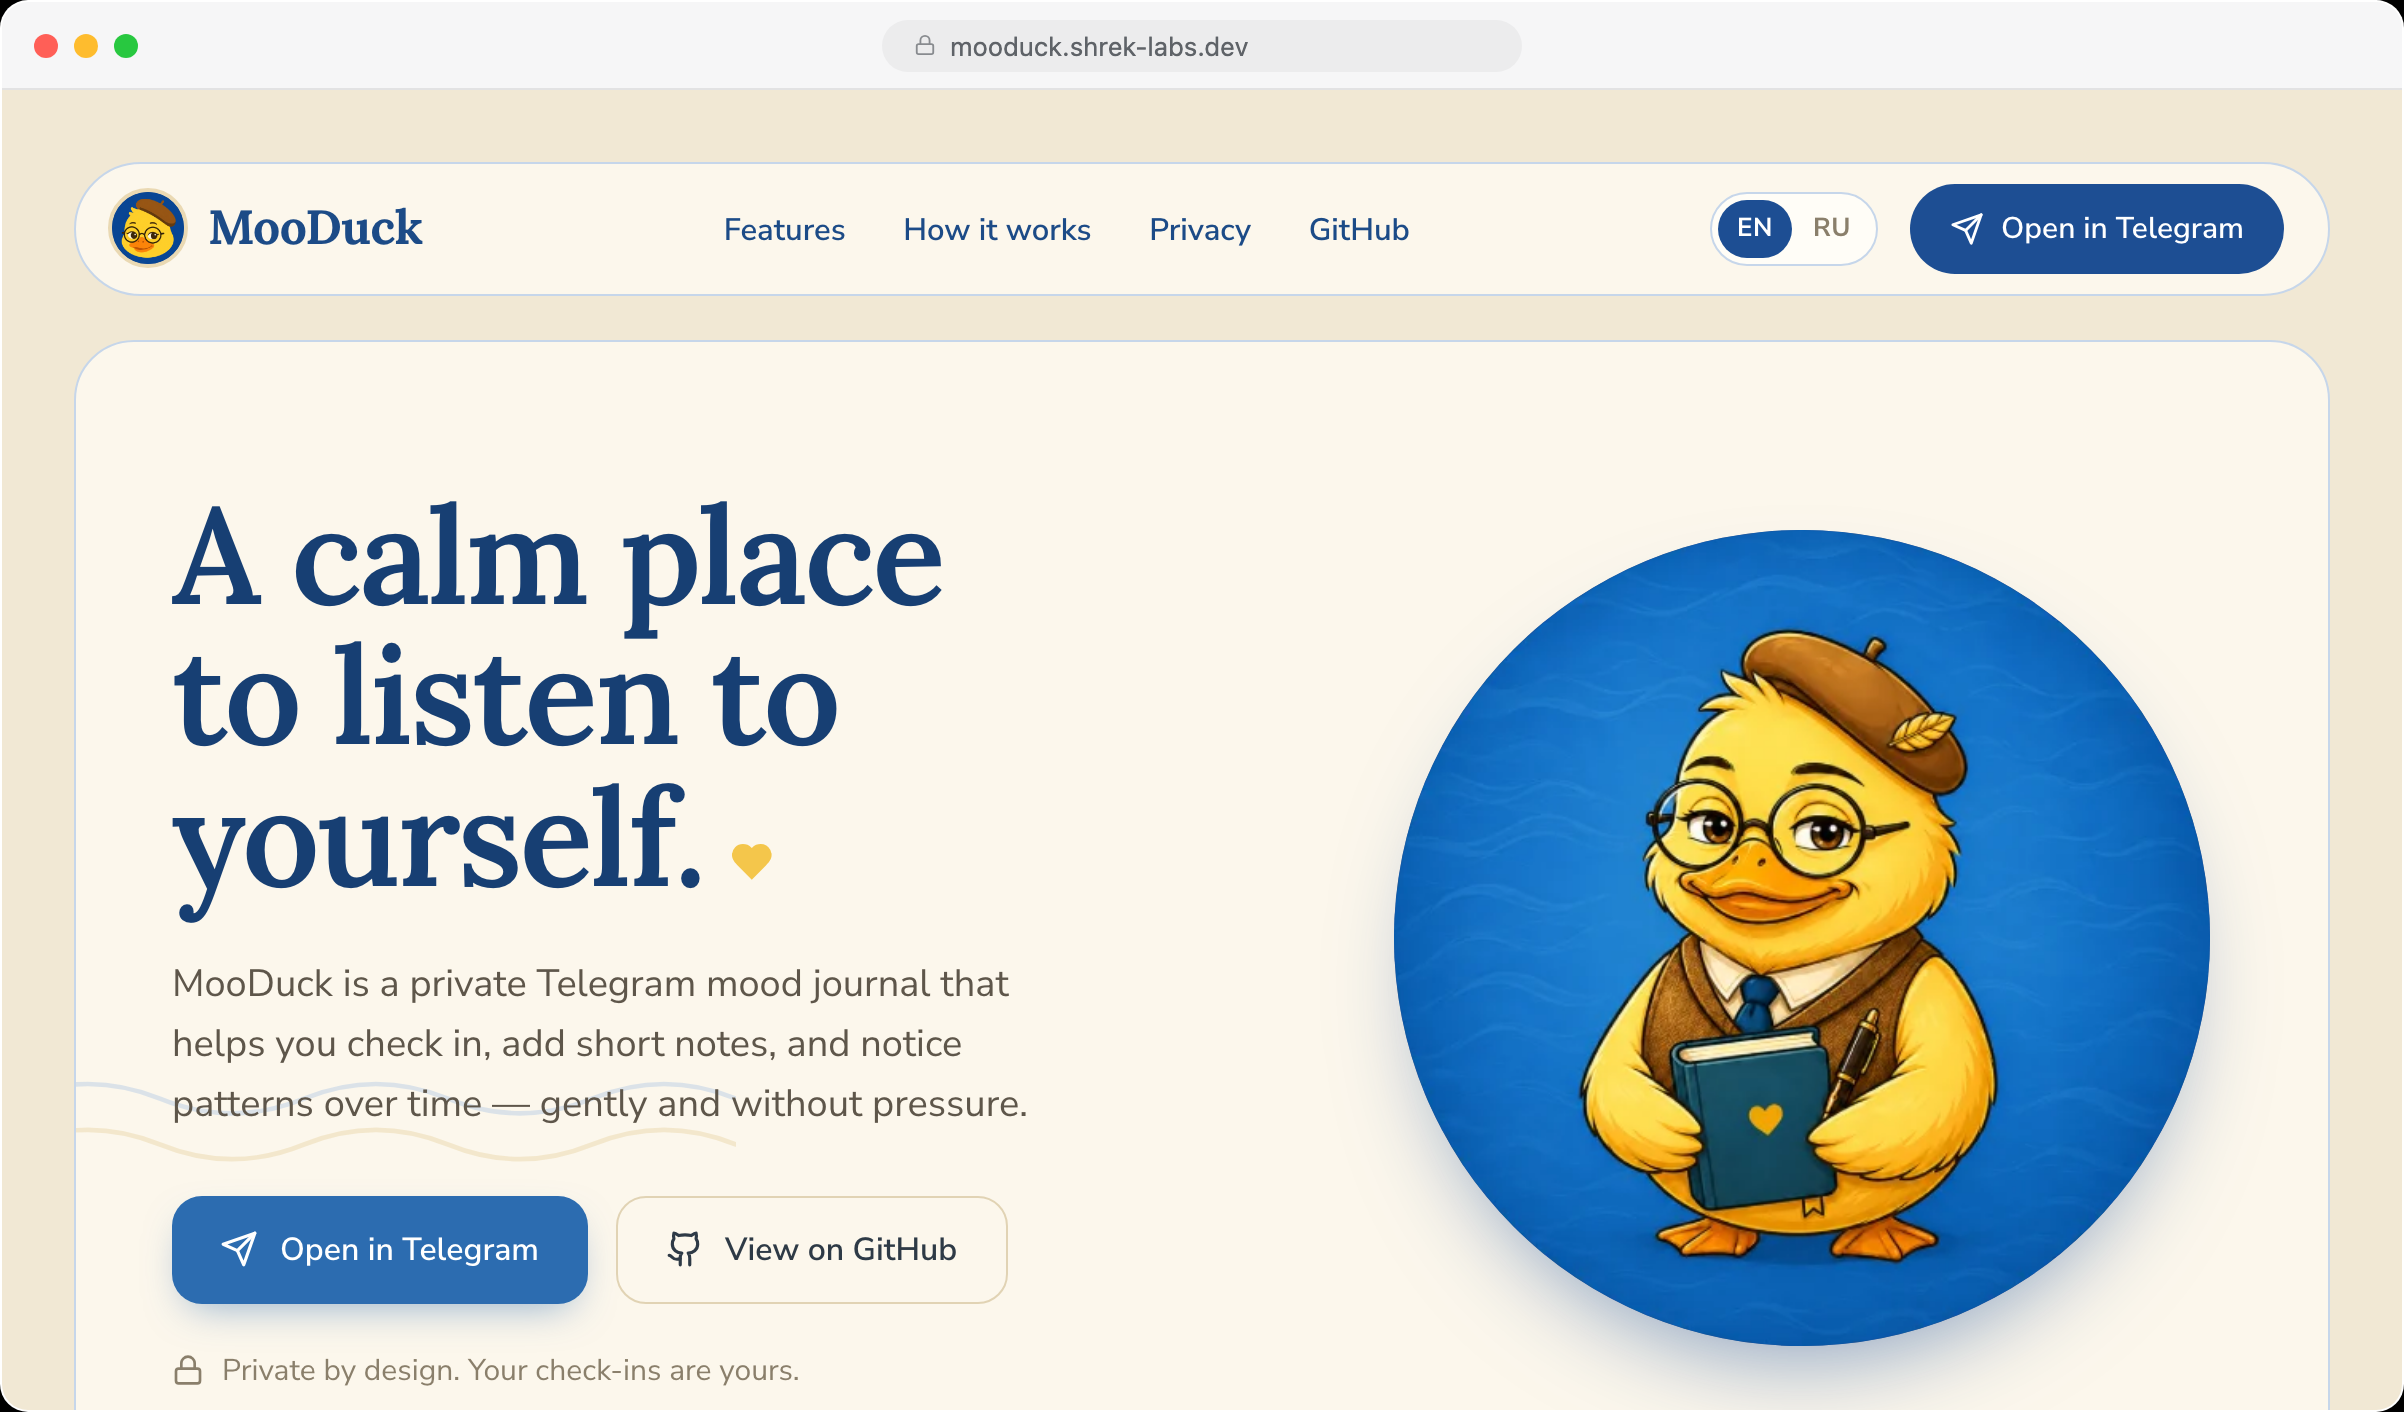
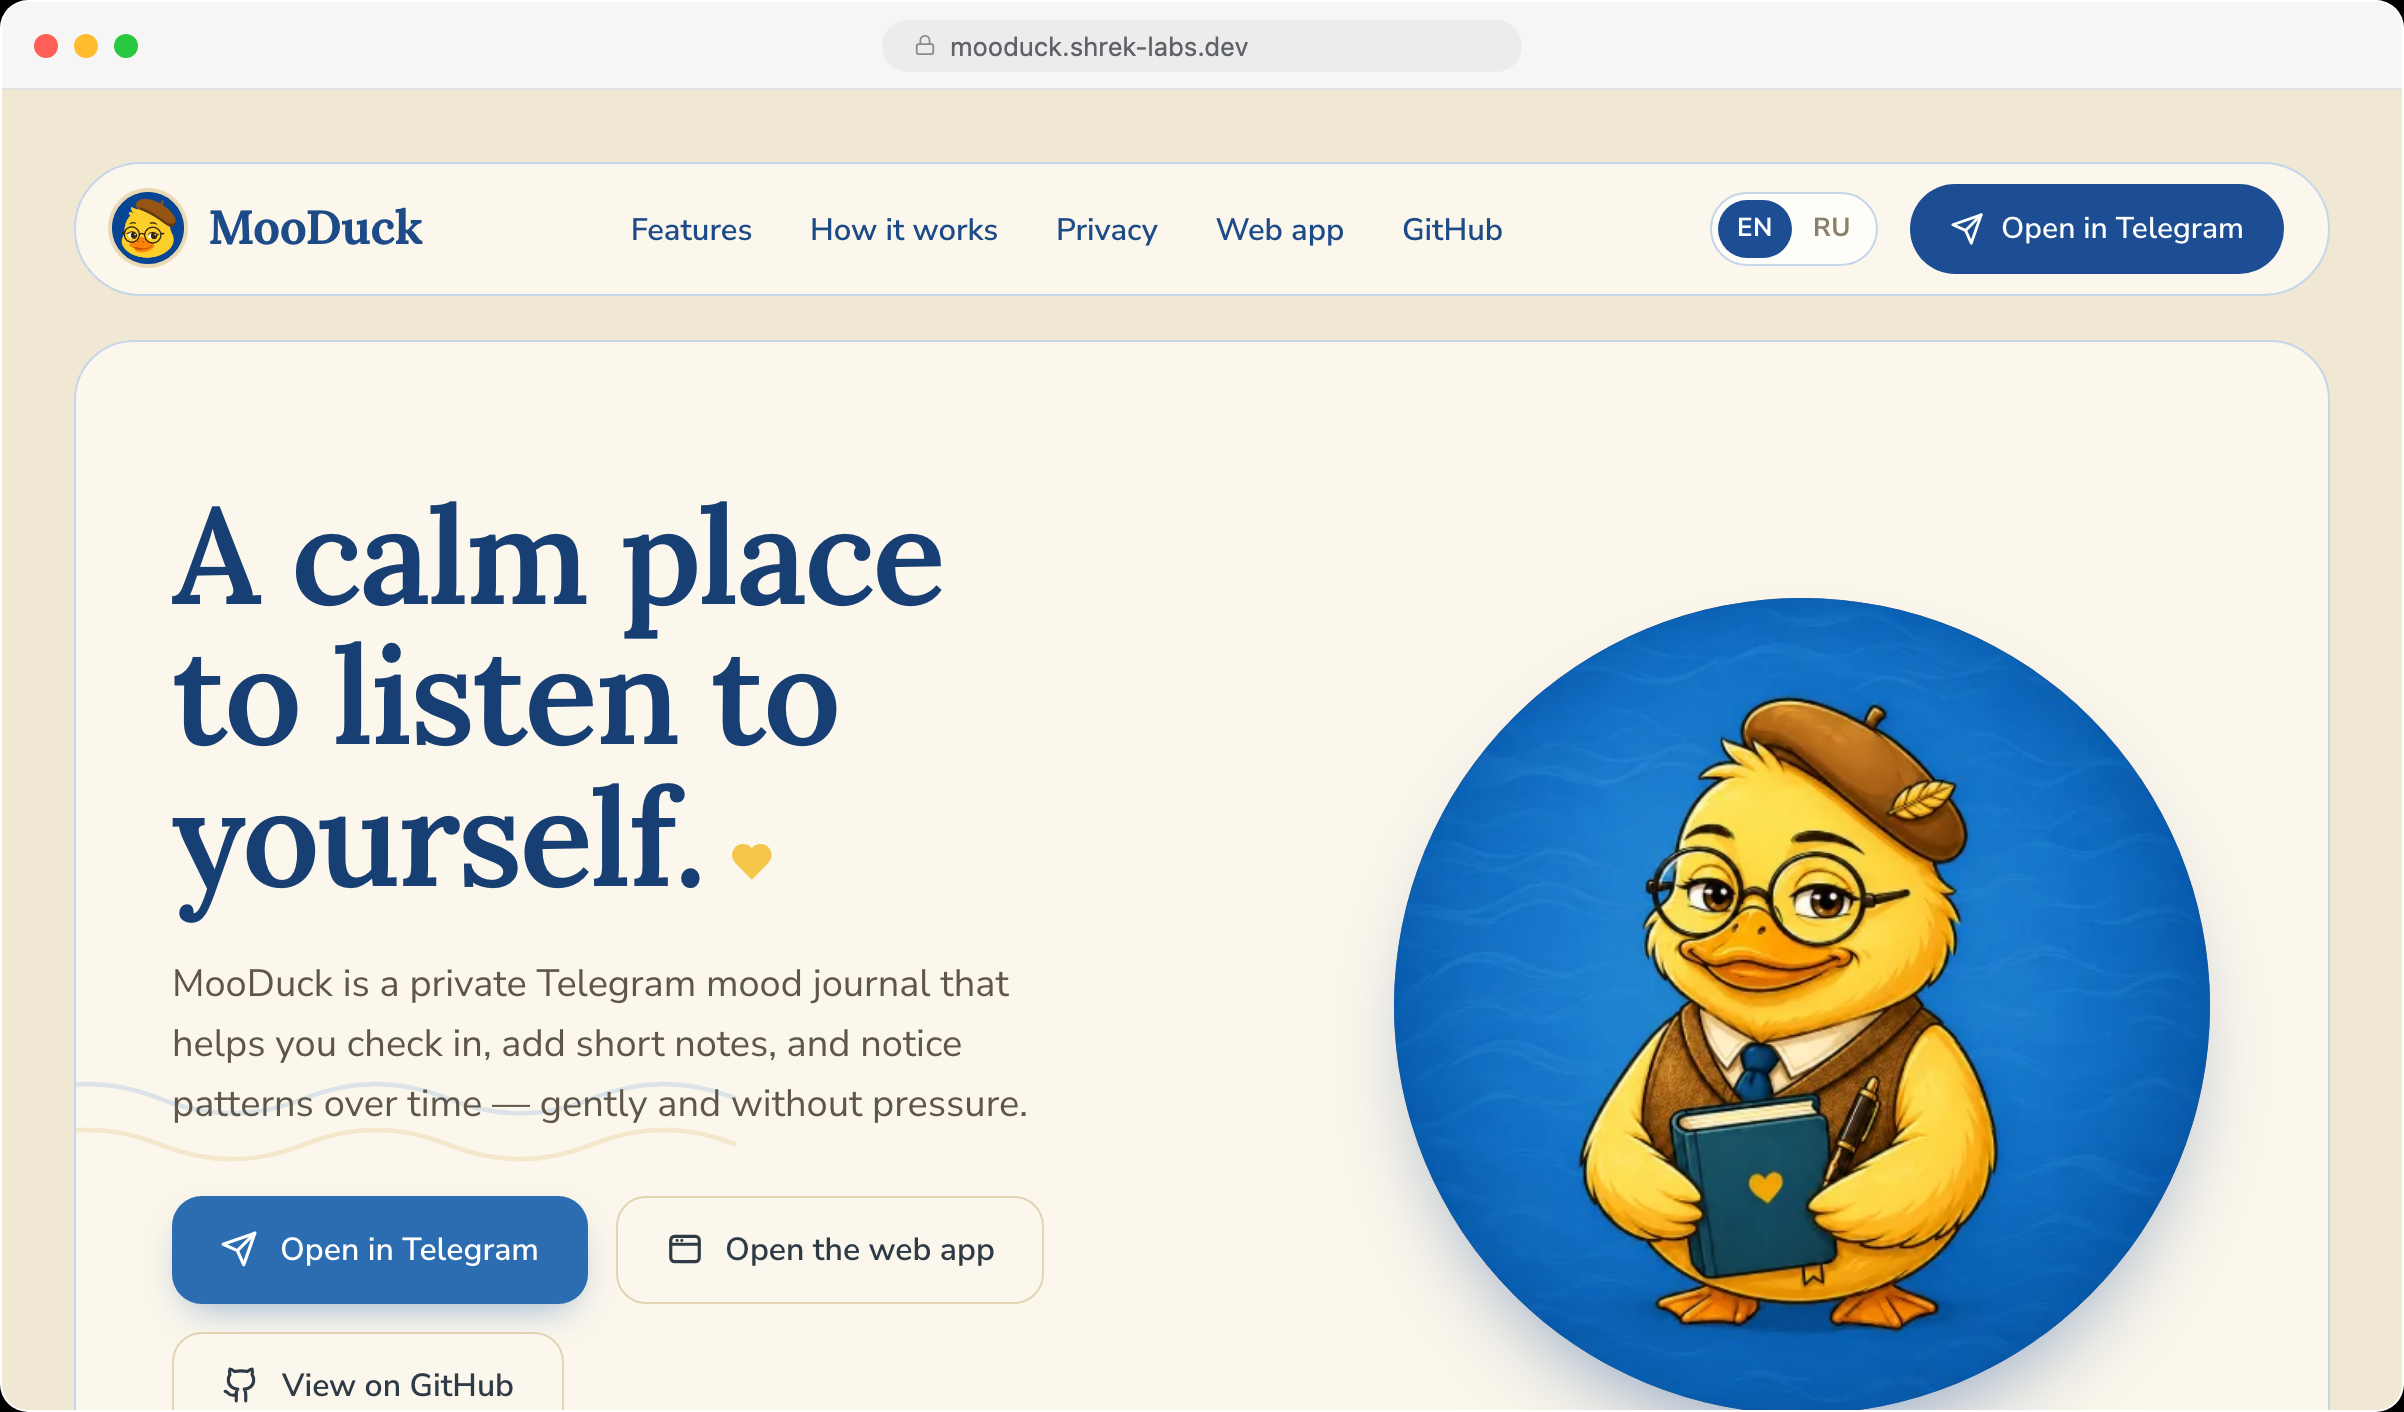
Link the web app from the landing
Three places: the header nav, and the hero and closing CTA blocks — the nav is
hidden below 900px, so on a phone the buttons are the only way through.

A plain <a>, not next/link: /app isn't a route of this static export, so client
routing would 404 instead of leaving the site for the app nginx serves there.

diff --git a/apps/landing/src/components/Landing/Hero/Hero.tsx b/apps/landing/src/components/Landing/Hero/Hero.tsx
@@ -1,7 +1,7 @@
 import Image from "next/image";
 import type { TLandingMessages } from "@/I18n/Catalogs/En";
-import { GITHUB_URL, TELEGRAM_URL } from "../Definitions";
-import { GithubIcon, HeartSolidIcon, LockIcon, TelegramIcon } from "../Icons";
+import { GITHUB_URL, TELEGRAM_URL, WEB_APP_URL } from "../Definitions";
+import { BrowserIcon, GithubIcon, HeartSolidIcon, LockIcon, TelegramIcon } from "../Icons";
 import styles from "./Hero.module.css";
 
 interface HeroProps {
@@ -30,6 +30,11 @@ export function Hero({ messages }: HeroProps) {
           >
             <TelegramIcon className={styles.buttonIcon} />
             {cta.openInTelegram}
+          </a>
+          {/* Same host, different app — a normal navigation, so no target/rel. */}
+          <a className={`${styles.button} ${styles.buttonSecondary}`} href={WEB_APP_URL}>
+            <BrowserIcon className={styles.buttonIcon} />
+            {cta.openWebApp}
           </a>
           <a
             className={`${styles.button} ${styles.buttonSecondary}`}

diff --git a/apps/landing/src/components/Landing/FinalCta/FinalCta.tsx b/apps/landing/src/components/Landing/FinalCta/FinalCta.tsx
@@ -1,7 +1,7 @@
 import Image from "next/image";
 import type { TLandingMessages } from "@/I18n/Catalogs/En";
-import { GITHUB_URL, TELEGRAM_URL } from "../Definitions";
-import { GithubIcon, LockIcon, TelegramIcon } from "../Icons";
+import { GITHUB_URL, TELEGRAM_URL, WEB_APP_URL } from "../Definitions";
+import { BrowserIcon, GithubIcon, LockIcon, TelegramIcon } from "../Icons";
 import styles from "./FinalCta.module.css";
 
 interface FinalCtaProps {
@@ -35,6 +35,11 @@ export function FinalCta({ messages }: FinalCtaProps) {
           >
             <TelegramIcon className={styles.buttonIcon} />
             {cta.openInTelegram}
+          </a>
+          {/* Same host, different app — a normal navigation, so no target/rel. */}
+          <a className={`${styles.button} ${styles.buttonGhost}`} href={WEB_APP_URL}>
+            <BrowserIcon className={styles.buttonIcon} />
+            {cta.openWebApp}
           </a>
           <a
             className={`${styles.button} ${styles.buttonGhost}`}

diff --git a/apps/landing/src/components/Landing/Definitions.ts b/apps/landing/src/components/Landing/Definitions.ts
@@ -25,8 +25,15 @@ import {
 export const TELEGRAM_URL = "https://t.me/Moo_Duck_zae_bot";
 export const GITHUB_URL = "https://github.com/Ruminat/mooduck";
 
+/**
+ * The web app is served by nginx at /app on this same host, so this is a plain
+ * path — and a plain `<a>`, not `next/link`: /app isn't a route of this static
+ * export, and client-side routing to it would 404 instead of leaving the site.
+ */
+export const WEB_APP_URL = "/app";
+
 /** Anchor navigation in the header. `github` is an external link. */
-export type NavId = "features" | "howItWorks" | "privacy" | "github";
+export type NavId = "features" | "howItWorks" | "privacy" | "webApp" | "github";
 
 export interface NavLink {
   id: NavId;
@@ -38,6 +45,7 @@ export const NAV_LINKS: NavLink[] = [
   { id: "features", href: "#features" },
   { id: "howItWorks", href: "#how-it-works" },
   { id: "privacy", href: "#privacy" },
+  { id: "webApp", href: WEB_APP_URL },
   { id: "github", href: GITHUB_URL, external: true },
 ];
 

diff --git a/apps/landing/src/components/Landing/Icons.tsx b/apps/landing/src/components/Landing/Icons.tsx
@@ -151,6 +151,17 @@ export function BackArrowIcon({ className }: IconProps) {
   );
 }
 
+/** A browser window — the web dashboard, as opposed to the chat. */
+export function BrowserIcon({ className }: IconProps) {
+  return (
+    <svg {...strokeDefaults} className={className}>
+      <rect x="3" y="4" width="18" height="16" rx="2.5" />
+      <path d="M3 9h18" />
+      <path d="M7 6.5h.01M10 6.5h.01" />
+    </svg>
+  );
+}
+
 export function DotsVerticalIcon({ className }: IconProps) {
   return (
     <svg viewBox="0 0 24 24" fill="currentColor" aria-hidden className={className}>

diff --git a/apps/landing/src/I18n/Catalogs/Ru.ts b/apps/landing/src/I18n/Catalogs/Ru.ts
@@ -17,6 +17,7 @@ export const ru: TLandingMessages = {
   cta: {
     openInTelegram: "Открыть в Telegram",
     openInTelegramShort: "Telegram",
+    openWebApp: "Открыть веб-версию",
     viewOnGithub: "Посмотреть на GitHub",
   },
 
@@ -29,6 +30,7 @@ export const ru: TLandingMessages = {
     features: "Возможности",
     howItWorks: "Как это работает",
     privacy: "Приватность",
+    webApp: "Веб-версия",
     github: "GitHub",
   },
 

diff --git a/apps/landing/src/I18n/Catalogs/En.ts b/apps/landing/src/I18n/Catalogs/En.ts
@@ -23,6 +23,7 @@ export const en = {
   cta: {
     openInTelegram: "Open in Telegram",
     openInTelegramShort: "Telegram",
+    openWebApp: "Open the web app",
     viewOnGithub: "View on GitHub",
   },
 
@@ -35,6 +36,7 @@ export const en = {
     features: "Features",
     howItWorks: "How it works",
     privacy: "Privacy",
+    webApp: "Web app",
     github: "GitHub",
   } satisfies Record<NavId, string>,
 
